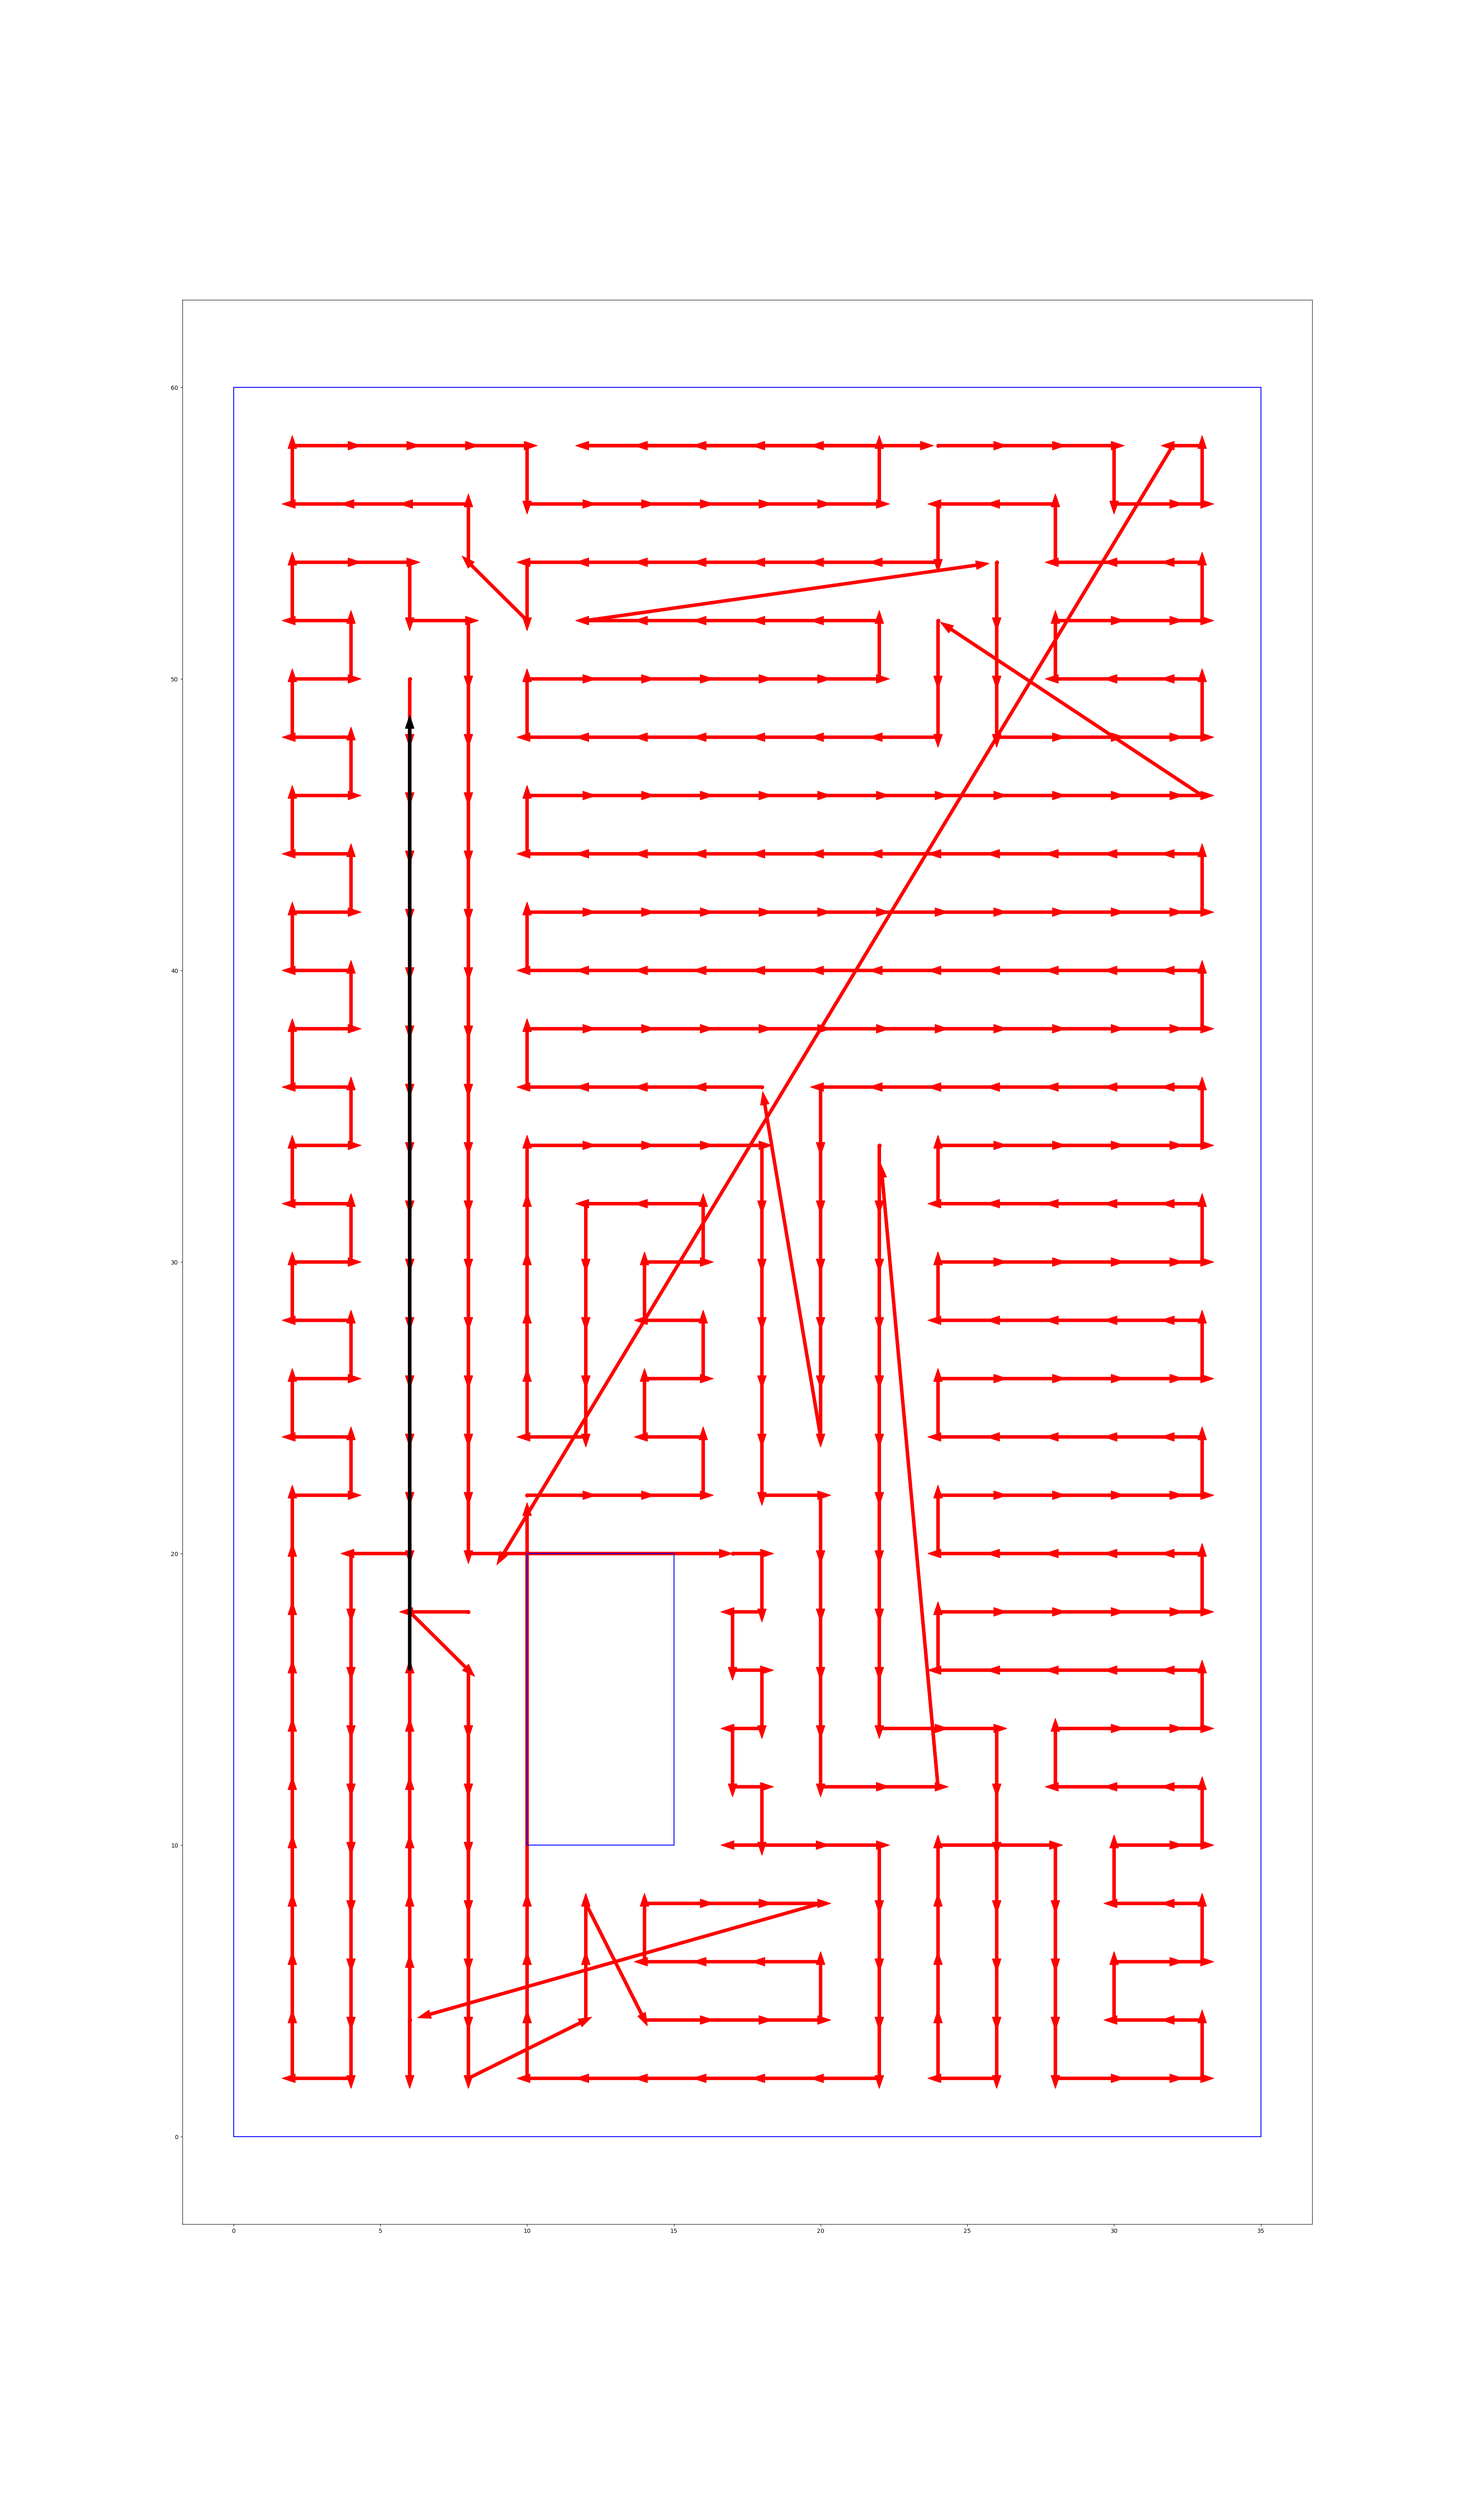
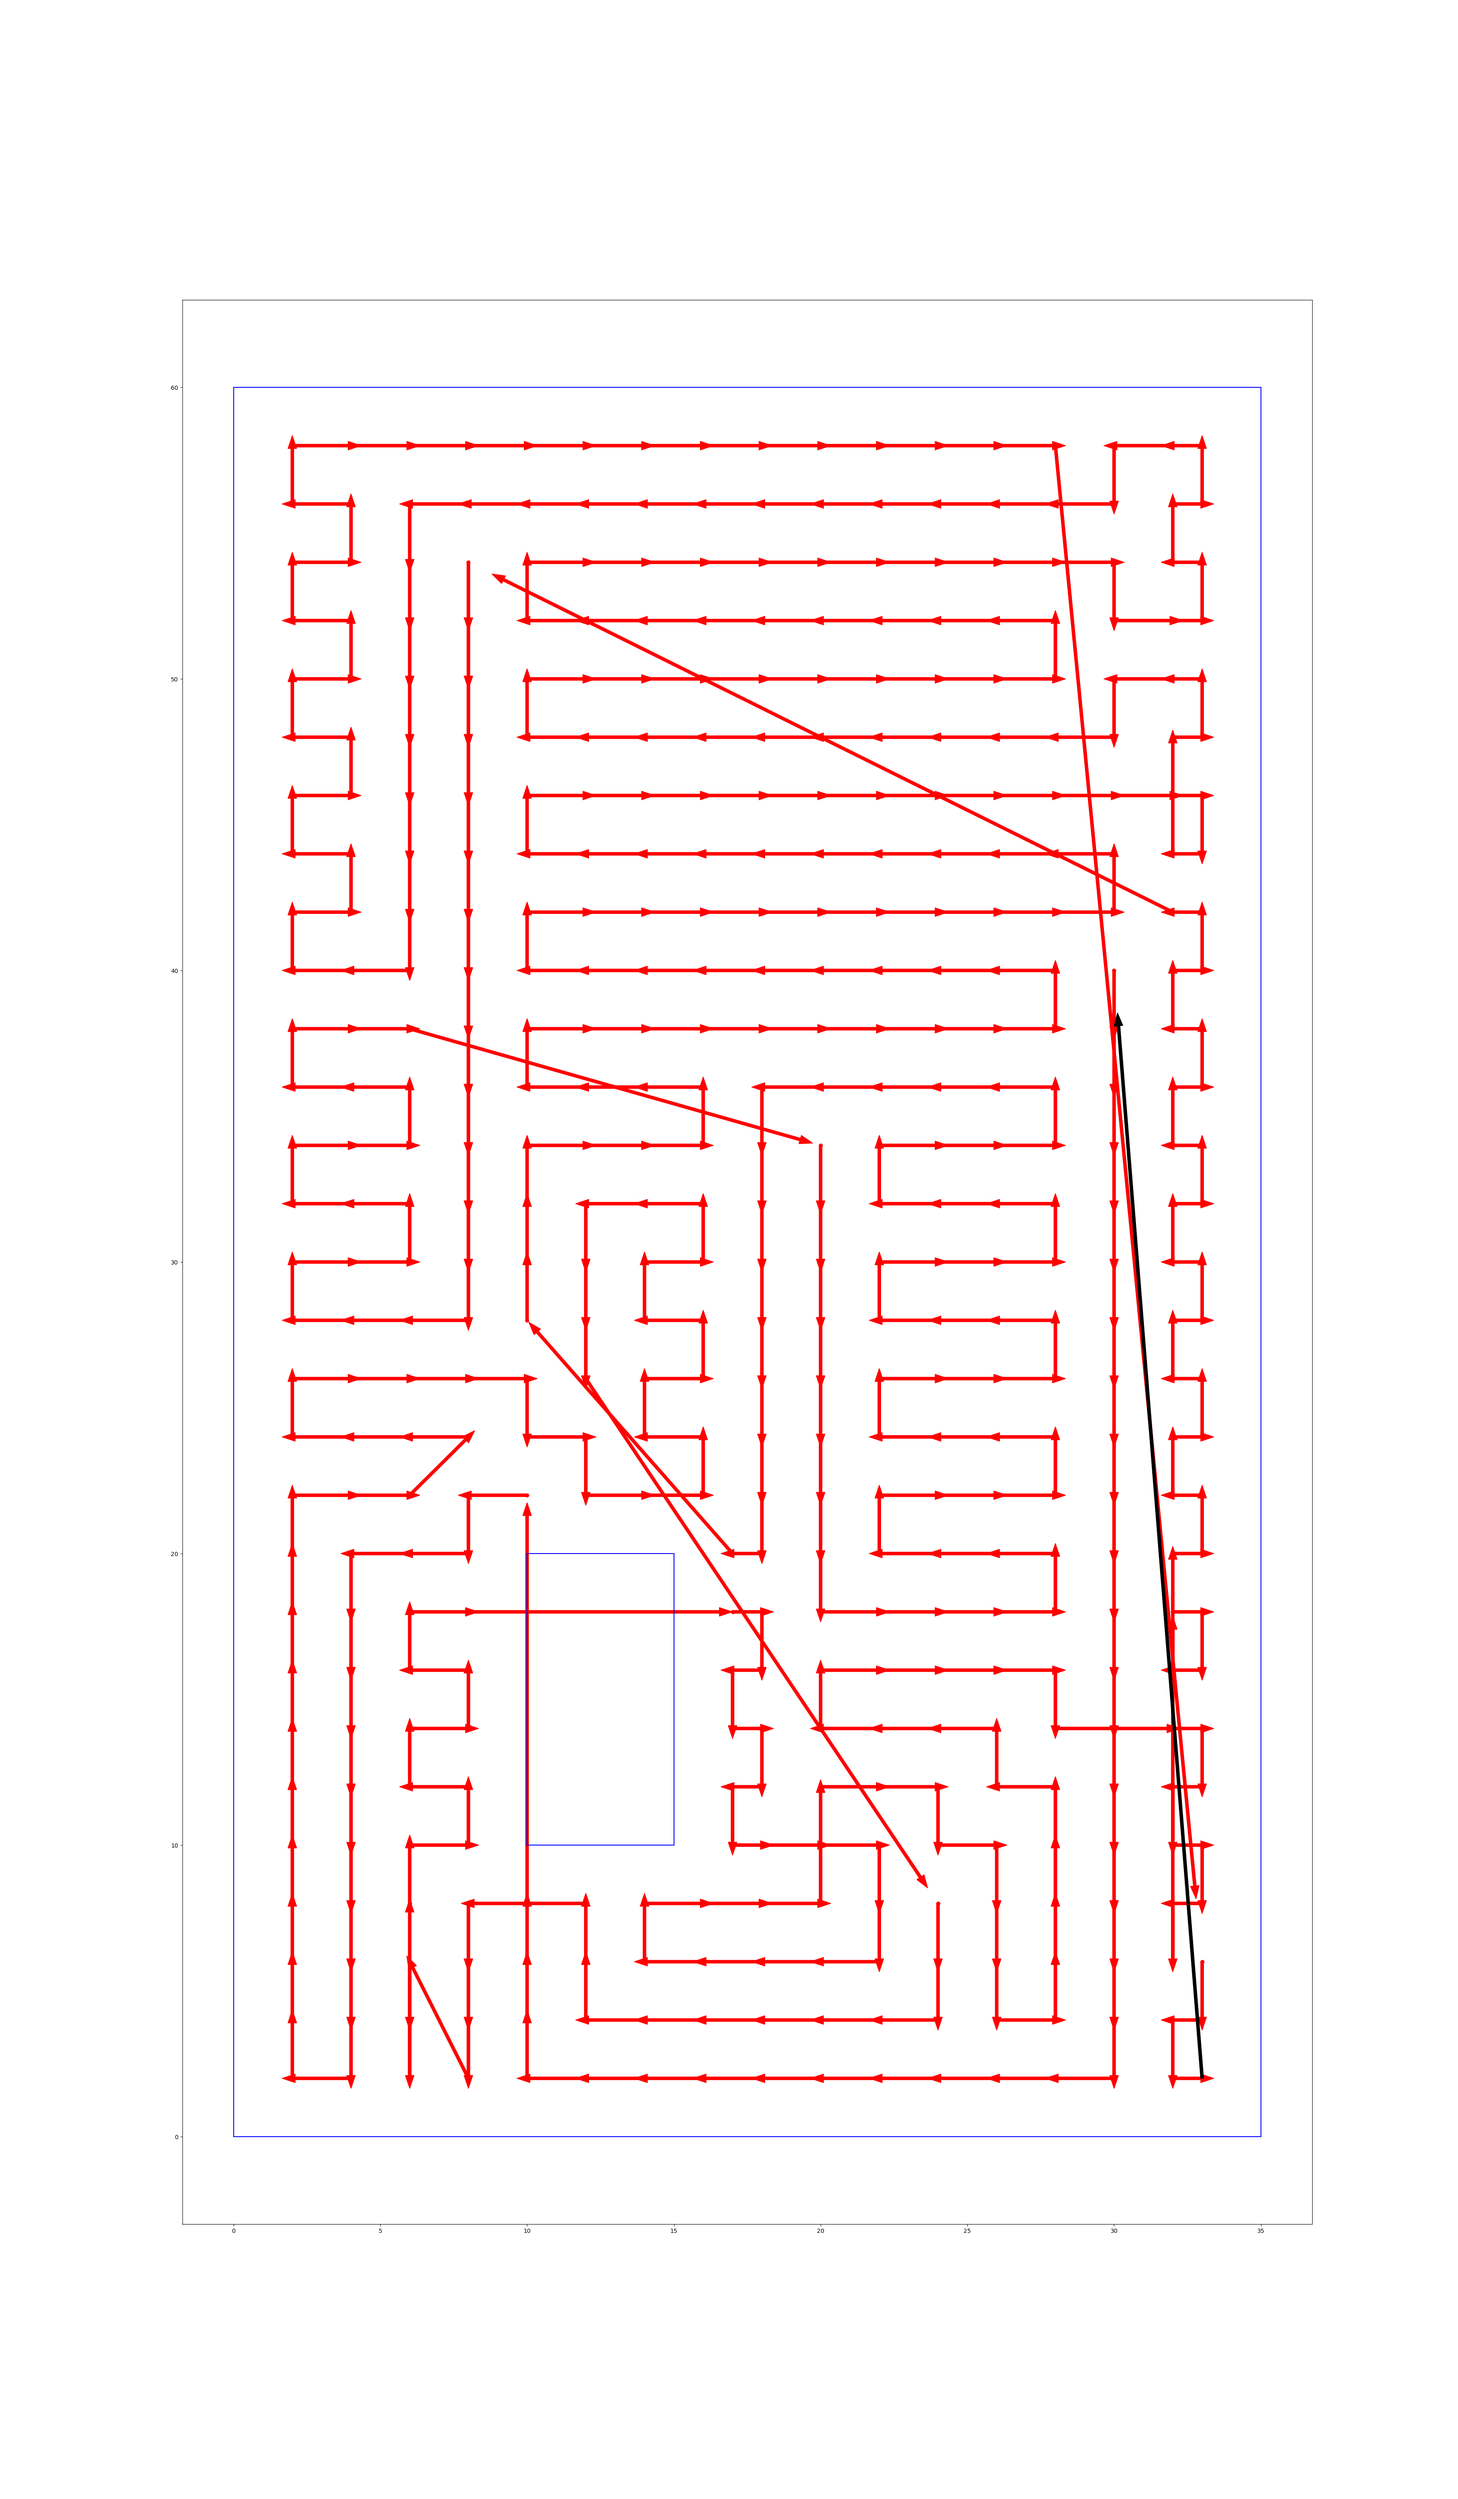
update Q

diff --git a/TSP Qlearning/environment.py b/TSP Qlearning/environment.py
@@ -28,7 +28,7 @@ class Environment:
 
         self.n_stops = len(self.stops)
 
-        self.Q = -cdist(self.stops, self.stops, 'euclidean')
+        self.Q = -np.square(cdist(self.stops, self.stops, 'euclidean'))
 
         self.reset()
         

diff --git a/TSP Qlearning/car.py b/TSP Qlearning/car.py
@@ -8,7 +8,7 @@ class Car:
         self.Q = self.env.Q
         self.eps = 1
         self.eps_min = 0.01
-        self.eps_decay = 0.99
+        self.eps_decay = 0.999
 
         self.reset_memory()
         

diff --git a/TSP Qlearning/main.py b/TSP Qlearning/main.py
@@ -91,6 +91,6 @@ disc = 0.9
 env = Environment()
 car = Car(env)
 
-run_episodes(env, car, lr, disc, 50000)
+run_episodes(env, car, lr, disc, 5000)
 show_path(env, car, "path.png")
 
